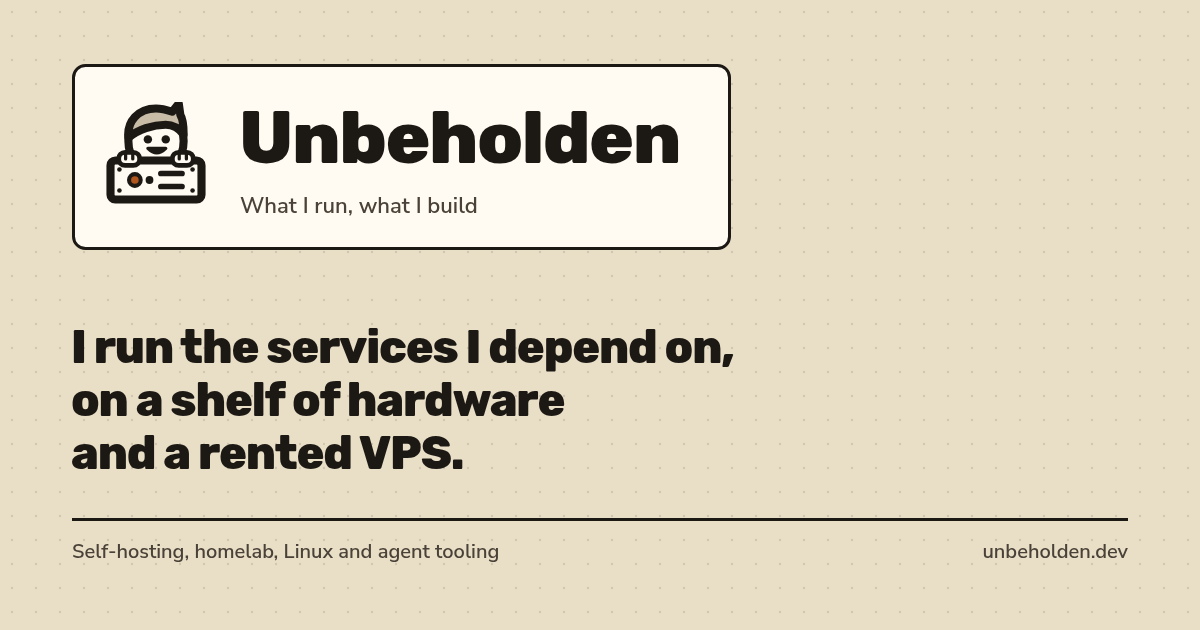
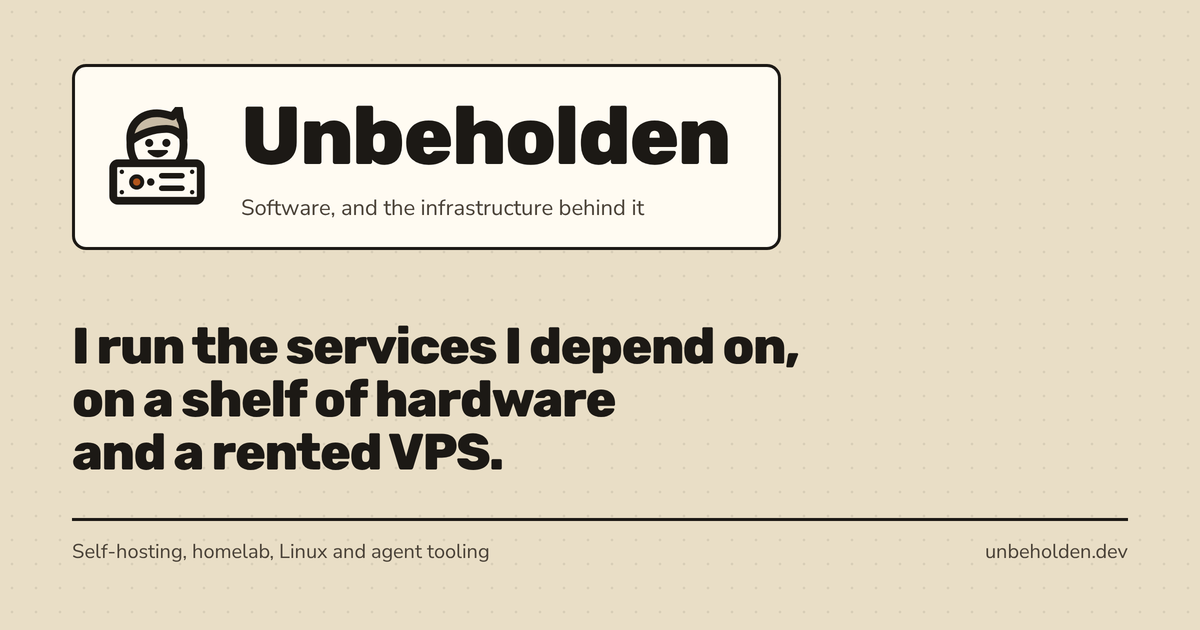
Use Software, and the infrastructure behind it as the site tagline (#163)
## Summary

```diff
-What I run, what I build
+Software, and the infrastructure behind it
```

The old tagline covered the homelab but not the day job. The new one matches the CV statement, "I build software and run the infrastructure behind it".

Updates the masthead, default title and description, social card alt text and feed description. `public/og.png` is redrawn with the new tagline. There is no card source in the repo, so I rebuilt it as an HTML page from the site fonts, colours and mascot and captured it at 1200 × 630; positions match the old card to within a few pixels, and the box is 50px wider for the longer line.

The masthead tagline gets `text-balance`, because at 375px it now wraps to two lines.

## Evidence

- Browser against the dev server: at 1280px the tagline is one line; at 375px it is two balanced lines. No horizontal overflow at either width.
- The new card was inspected at 1200 × 630.
- `bun run check`, `bun test` and `bun run build` pass.

## Merge Danger

**Door:** two-way. Revert the commit to restore the previous copy and image.

diff --git a/src/pages/feed.xml.ts b/src/pages/feed.xml.ts
@@ -28,7 +28,7 @@ export const GET: APIRoute = async ({ site }) => {
 	const feed = new Feed({
 		title: 'Unbeholden',
 		description:
-			'What I run, what I build. Every entry in full, so you can read it without loading the site.',
+			'Software, and the infrastructure behind it. Every entry in full, so you can read it without loading the site.',
 		id: url('/'),
 		link: url('/'),
 		feedLinks: { atom: url('feed.xml') },
